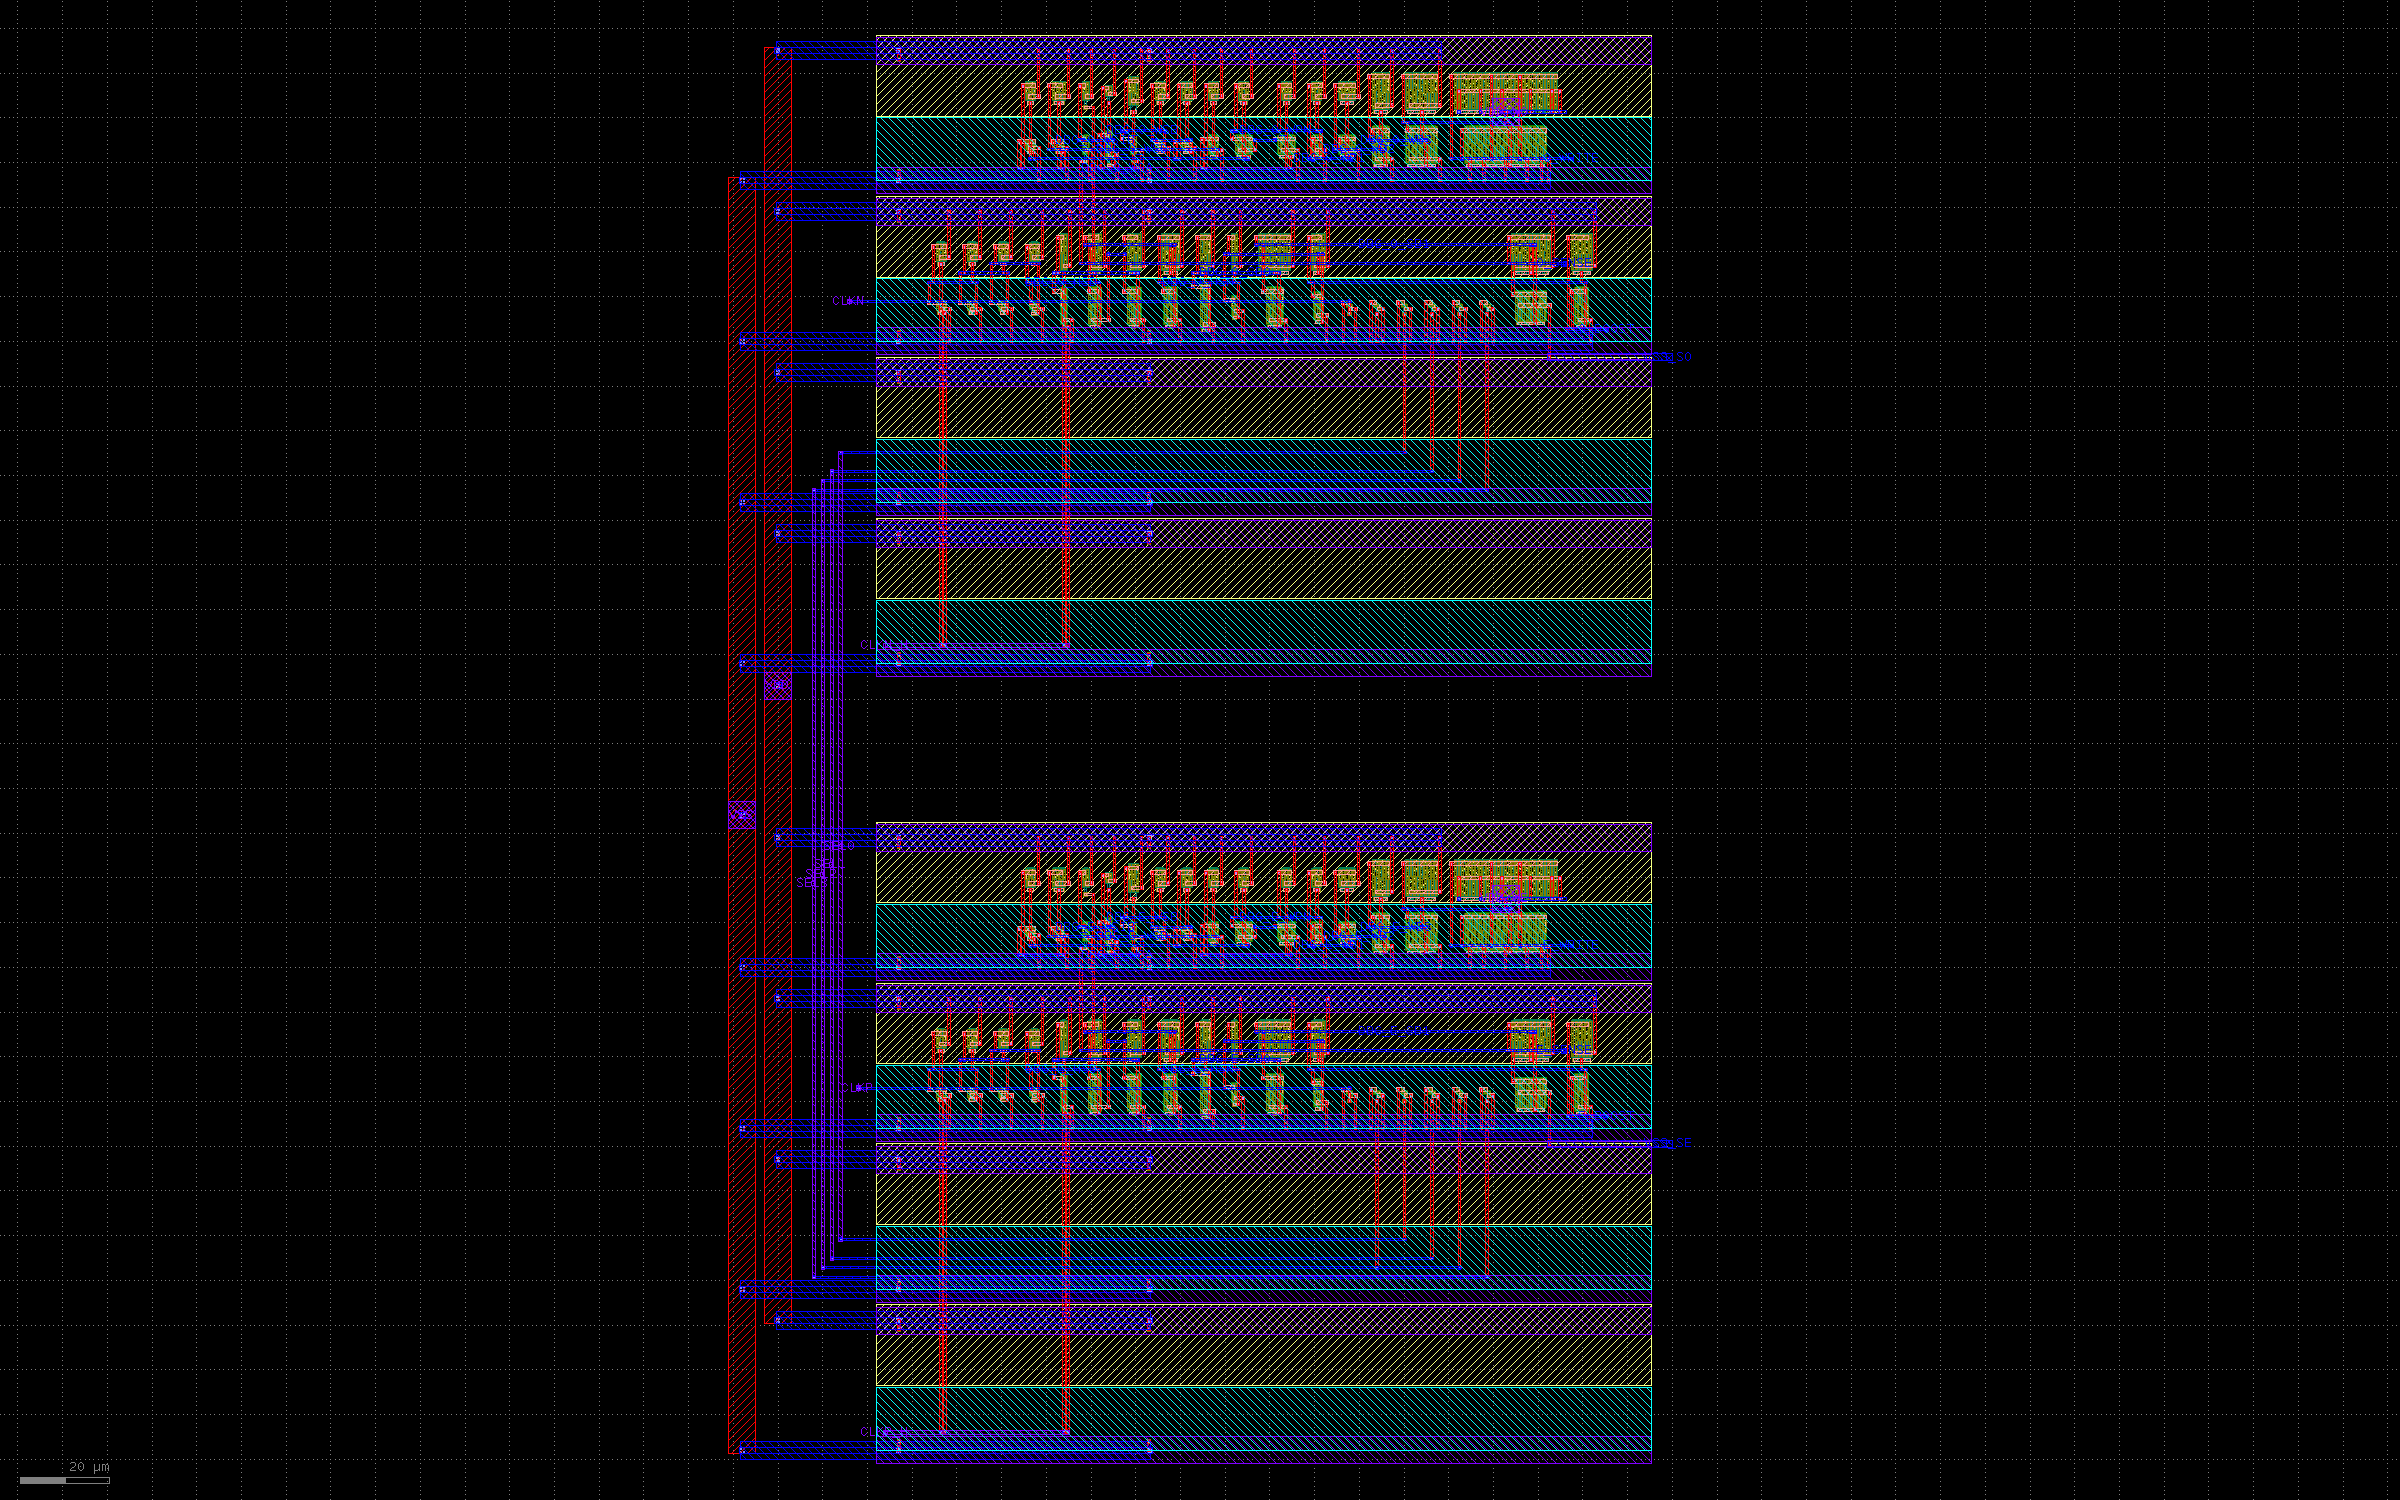
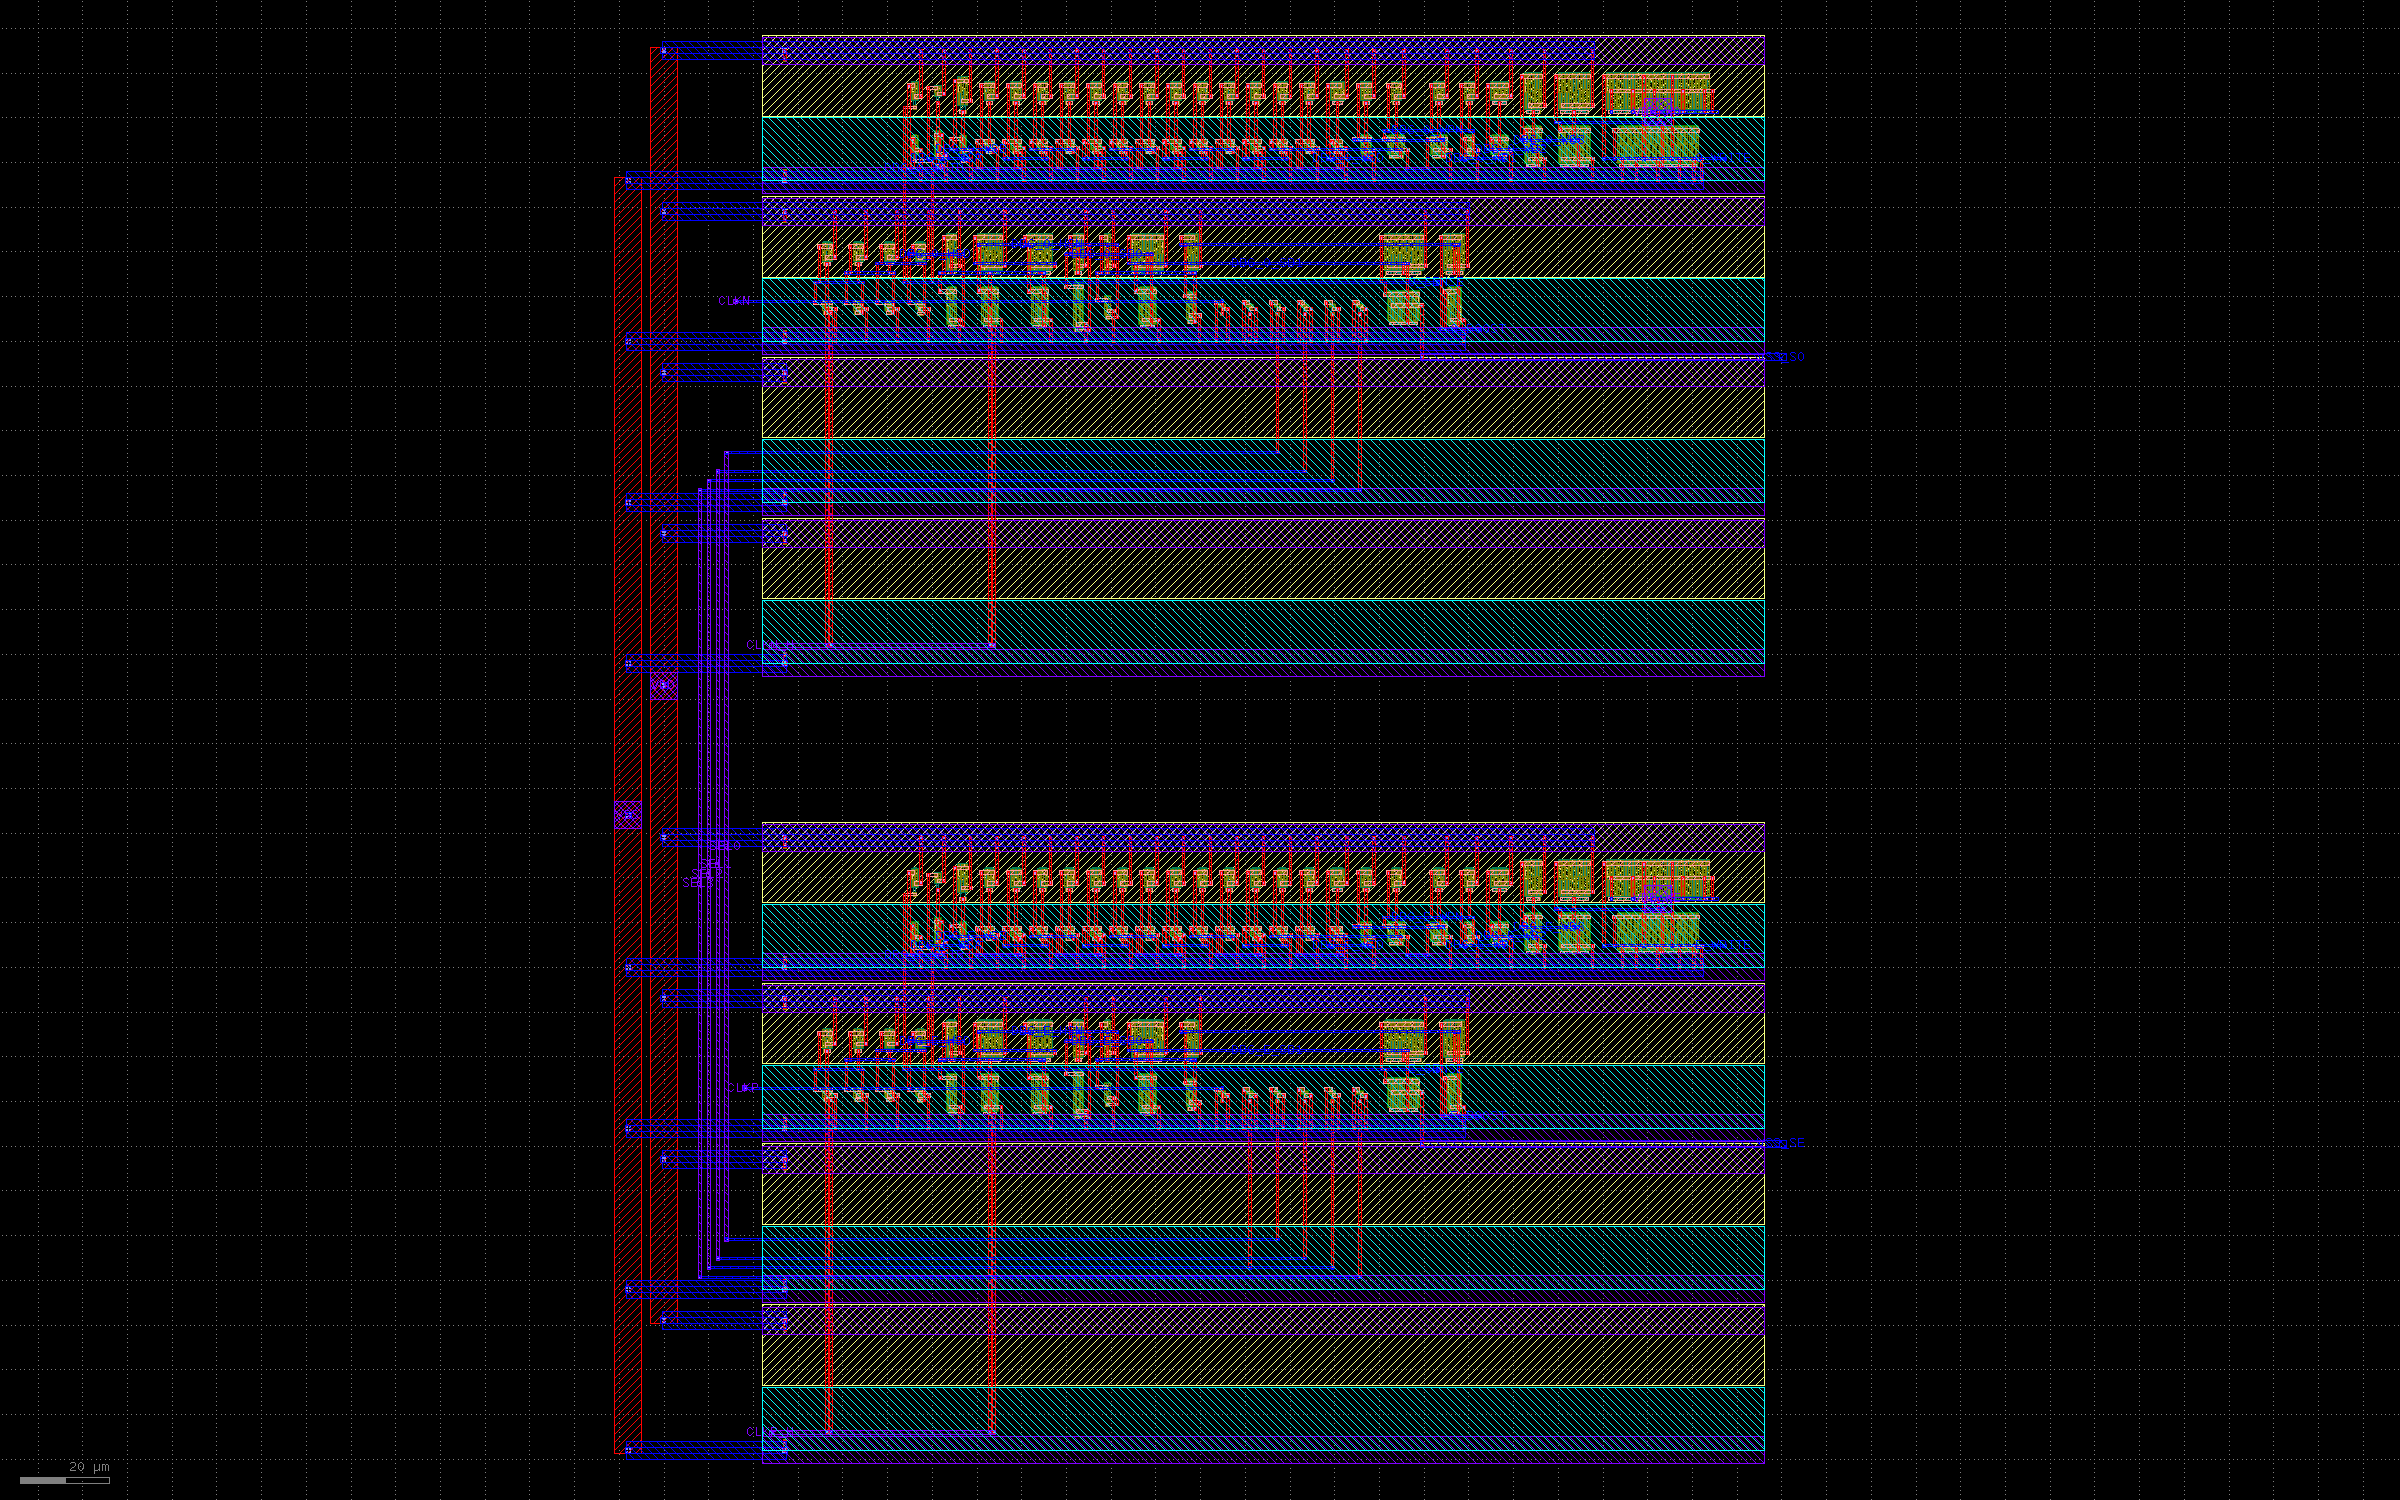
pcie: compact pulse write timing path

diff --git a/ip/blocks/analog/wireline_serdes/clock_pulse/generate_pulse_layout.py b/ip/blocks/analog/wireline_serdes/clock_pulse/generate_pulse_layout.py
@@ -403,6 +403,34 @@ def place(devices: list[Device], groups: dict[str, Group]) -> tuple[float, dict[
             def write_order(group: Group) -> tuple[int, int, int, str]:
                 parts = group.name.split("__")
                 root = parts[1]
+                # Current fast-detector implementation: retain the full-swing
+                # write chain as one physical row.  The generic depth order
+                # formerly placed XWSD0 at the beginning of lane 3, more than
+                # 90 um from WBA (its driver) and WPN (its consumer).  Exact
+                # PEX then measured 85--93 ohm root-to-gate paths on those
+                # narrow-event nodes and WPN never reached a valid low level.
+                # This is a pure placement change: WISO restores the SENSE
+                # edge, WBASE creates a full-width delayed step, WSD supplies
+                # the local end edge, WPN forms the interval, and WB0--WB4
+                # restore/buffer it.  Keep each such dependency adjacent;
+                # calibration belongs on a full-width state, not by moving a
+                # narrow pulse through a long route.
+                fast_write_rank = {
+                    "XWISO0": 0, "XWISO1": 1, "XWISO2": 2,
+                    "XWBASE0": 3, "XWBASE1": 4, "XWBASE2": 5,
+                    "XWBASE3": 6, "XWBASE4": 7, "XWBASE5": 8,
+                    "XWSD0": 9, "XWPN": 10,
+                    "XWB0": 11, "XWB1": 12, "XWB2": 13,
+                    "XWB3": 14, "XWB4": 15,
+                }
+                if root in fast_write_rank:
+                    stage_name = parts[2] if len(parts) > 2 else ""
+                    stage_suffix = (stage_name[2:]
+                                    if stage_name.startswith(("XI", "XD"))
+                                    else "")
+                    stage = int(stage_suffix) if stage_suffix.isdigit() else 0
+                    return (0, 4 * fast_write_rank[root] + stage, 0,
+                            group.name)
                 if (root == "XWET" and len(parts) > 2
                         and parts[2] == "XNF"):
                     # Preserve the calibrated XWET pair and downstream x

diff --git a/ip/blocks/analog/wireline_serdes/clock_pulse/README.md b/ip/blocks/analog/wireline_serdes/clock_pulse/README.md
@@ -76,17 +76,25 @@ closure, and the full 20-case campaign is not promoted.
 The working source now contains a reduced-depth static-CMOS falling-edge
 detector (`cp_fall_pulse_fast`) and six full-swing write-delay units. This is a
 strictly unpromoted candidate, recorded in
-`pulse_fast_path_checkpoint.json`. Its schematic campaign covers TT, FF/hot,
-and SS/cold (12/20 cases); FF/cold has insufficient write placement, while
-SS/hot has an insufficient sense aperture and no complete write pulse. Its
-fresh 164-device, 226.2-um-wide layout is zero-DRC and uniquely LVS-matched,
-but its fresh nominal full-RC PEX fails: the write detector never discharges
-far enough (`WPN` minimum 1.335 V), `WB1` reaches only 337 mV, and WRITE reaches
-only 94 mV. The exact generated PEX/GDS are intentionally not promoted or
-substituted for other evidence decks. This candidate establishes that the
-schematic-only improvement is parasitic-sensitive; the next revision must add
-the needed calibration at a fully restored step and close this first extracted
-TT case before spending time on its full PVT matrix.
+`pulse_fast_path_checkpoint.json`. The prior 12/20 schematic record is
+historical only; a fresh current-runtime replay is 0/20 and cannot be used as
+release evidence. The current 164-device, 226.2-um-wide layout is zero-DRC and
+uniquely LVS-matched. It compacts the restored `WISO`--`WBASE`--`WSD`--`WPN`--
+`WB` dependency chain so `WSD0` no longer sits more than 90 um from its driver
+and consumer. Fresh nominal full-RC PEX still fails: EVEN `WPN` reaches only
+0.950 V, ODD `WPN` 1.531 V, the corresponding first-taper peaks are 0.696 V
+and 0.270 V, and WRITE reaches only 98/120 mV. The exact generated PEX/GDS are
+intentionally not promoted or substituted for other evidence decks. This
+candidate establishes that the detector remains parasitic-sensitive even after
+the gross physical locality error is removed; the next revision must form the
+interval from a robust restored state and close its first extracted TT case
+before spending time on a full PVT matrix.
+
+Two 2026-08-31 extracted-TT sizing probes of `cp_rise_b_small` were rejected
+and reverted. Doubling its NMOS finger count moved the generated chain and
+gave 1.502 V `WPN`; doubling each NMOS finger width retained the horizontal
+placement but increased timing-state gate load and gave 1.576 V `WPN`. Neither
+is a layout or PVT solution.
 
 On 2026-08-31, a schematic-only wiring probe connected `SEL3` through the
 existing `cp_profile_write_restore` element at the restored `WSA`--`WSB` step.
